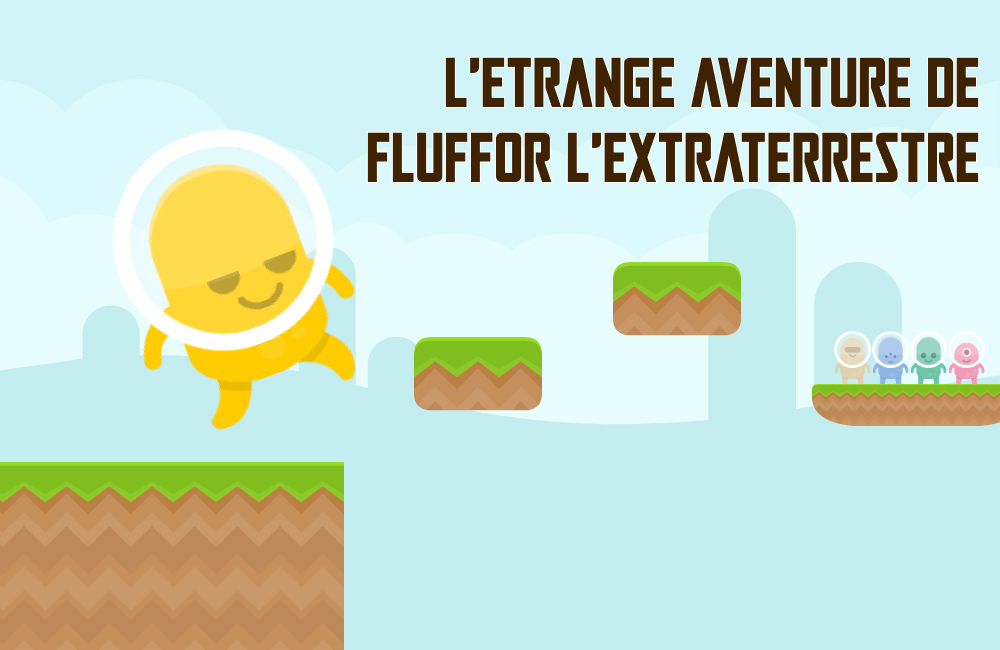
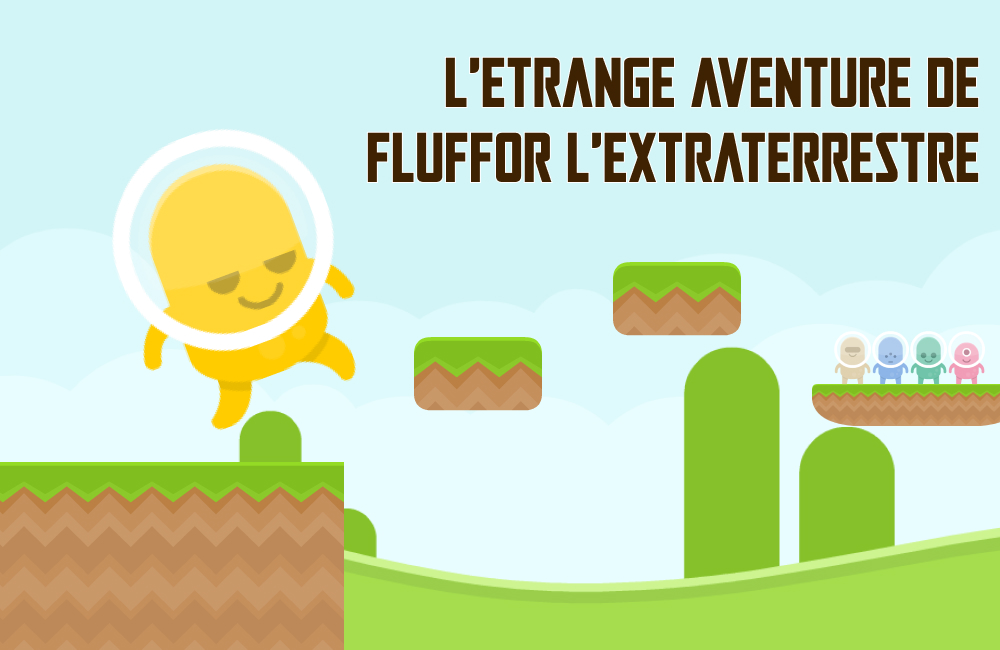
update game over backgrounds

diff --git a/src/ui.py b/src/ui.py
@@ -281,13 +281,13 @@ class GameView(arcade.View):
             if self.scene[LAYER_NAME_ENEMIES] in collision.sprite_lists:
                 arcade.stop_sound(self.music)
                 arcade.play_sound(self.game_over)
-                game_over = GameOverView(self)
+                game_over = GameOverView(self, "normal")
                 self.window.show_view(game_over)
                 return
             elif self.scene[LAYER_NAME_WATER] in collision.sprite_lists:
                 arcade.stop_sound(self.music)
                 arcade.play_sound(self.water_sound)
-                game_over = GameOverView(self)
+                game_over = GameOverView(self, "water")
                 self.window.show_view(game_over)
                 return
             elif self.scene[LAYER_NAME_FLAG] in collision.sprite_lists:
@@ -311,12 +311,12 @@ class GameView(arcade.View):
 class GameOverView(arcade.View):
     """Class to manage the game overview"""
 
-    def __init__(self, game_view: arcade.View):
+    def __init__(self, game_view: arcade.View, mode):
         """This is run once when we switch to this view"""
         super().__init__()
         self.game_view = game_view
 
-        self.background = arcade.load_texture("../rsc/PNG/Menu/Game_over.jpg")
+        self.background = arcade.load_texture(f"../rsc/PNG/Menu/Game_over_{mode}.jpg")
 
 
     def on_show_view(self):
